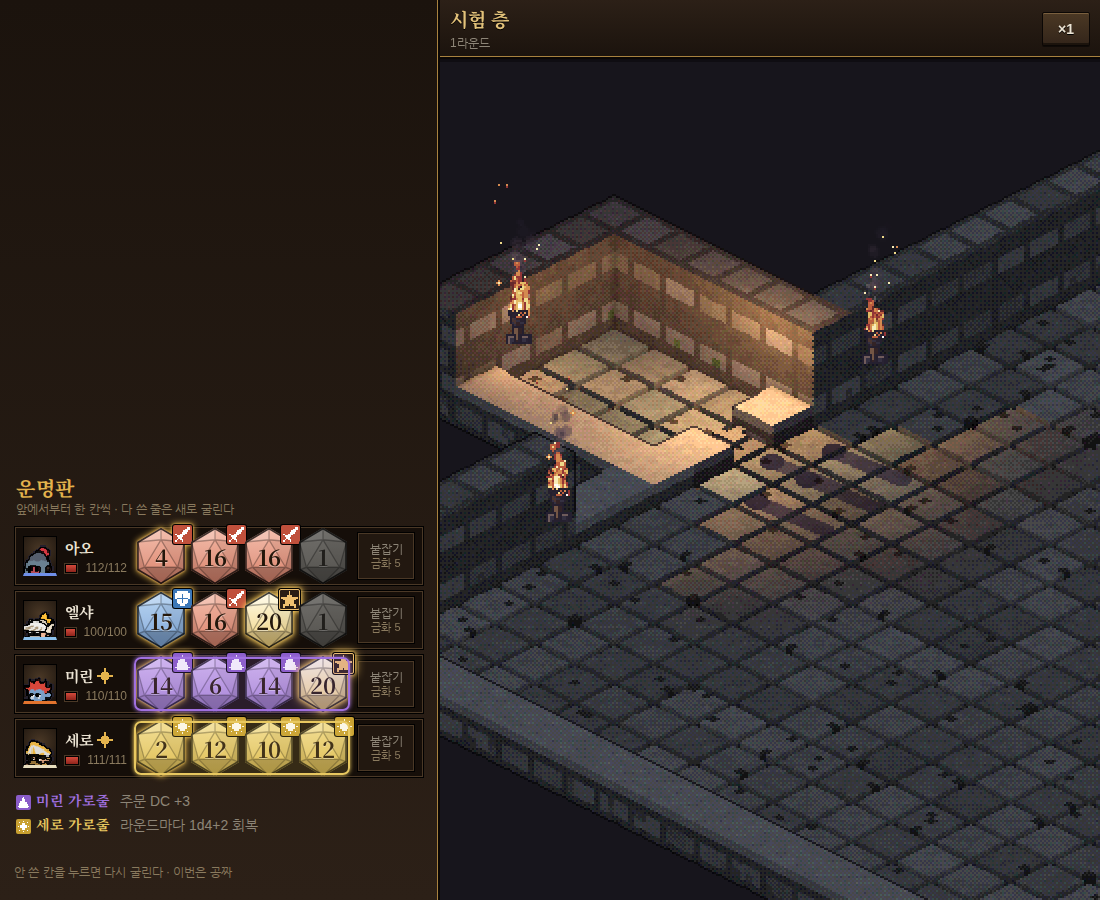
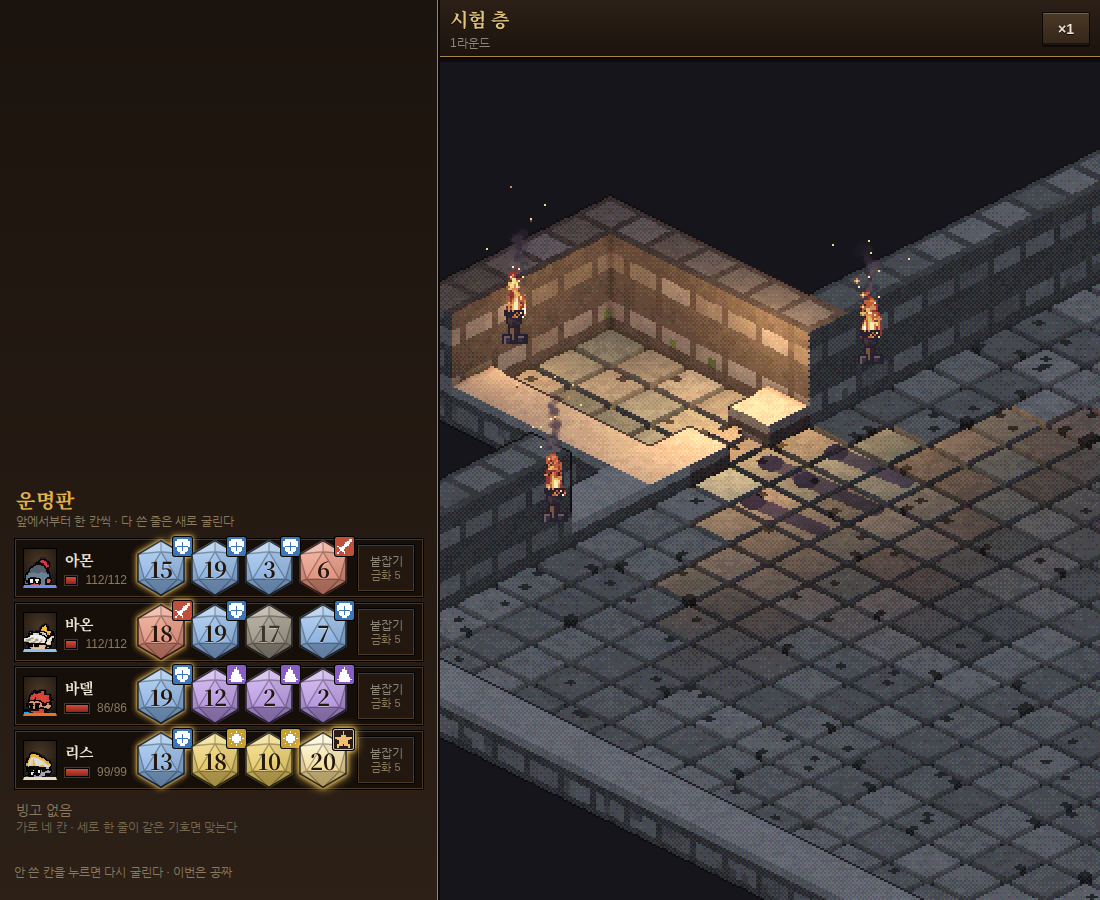
inc: 던전을 밝게 (기본 빛 · 빛 밖 흑백 · 등불 반지름) · 시안 배경도 새 밝기로

Changed region(s): [[0.0, 0.1556, 1.0, 1.0]]

diff --git a/inc/js/render/voxel.js b/inc/js/render/voxel.js
@@ -9,7 +9,7 @@
 const VOXON = q.get('vox') !== '0';
 const VOX = (() => {
   const VPT = 6, VS = T / VPT, FLOOR = 3, WH = FLOOR + 11, WLOW = FLOOR + 2, ZZ = WH + 2;
-  const LR = 48, VR = 9; // 빛 반지름(복셀) · 시야(타일)
+  const LR = 60, VR = 9; // 빛 반지름(복셀) · 시야(타일)
   const NORM = [[0, 0, 1], [0, 1, 0], [1, 0, 0]];
   const BAY = BAYER.map(v => v - .5);
   const hs = (a, b, c = 0) => { const s = Math.sin(a * 127.1 + b * 311.7 + c * 74.7) * 43758.5453; return s - Math.floor(s); };
@@ -17,7 +17,7 @@ const VOX = (() => {
   const mix = (a, b, t) => { const o = [16, 8, 0].map(s => Math.round(((a >> s) & 255) + (((b >> s) & 255) - ((a >> s) & 255)) * t)); return (o[0] << 16) | (o[1] << 8) | o[2]; };
   const hex = c => (Math.min(255, c[0] | 0) << 16) | (Math.min(255, c[1] | 0) << 8) | Math.min(255, c[2] | 0);
   // 빛이 없는 곳: 흑백 (판과 빛 덮개가 같은 식 — 경계가 이어진다)
-  const grayLin = (r0, g0, b0, a, nr) => { const up = nr === 0 ? 1.15 : .9, l = (.3 * r0 + .59 * g0 + .11 * b0) * .5 * a * up; return [l * .86, l * .9, l]; };
+  const grayLin = (r0, g0, b0, a, nr) => { const up = nr === 0 ? 1.15 : .9, l = (.3 * r0 + .59 * g0 + .11 * b0) * .7 * a * up; return [l * .86, l * .9, l]; };
   // 톤 · 디더(판 좌표 기준) → 색 하나
   const fin = (r, g, b, X, Y) => {
     r = r / (1 + r * .35) * 1.3; g = g / (1 + g * .35) * 1.3; b = b / (1 + b * .35) * 1.3;
@@ -209,7 +209,7 @@ const VOX = (() => {
     let R, G2, B;
     if (emv === 1) { R = r0 * 1.6 * L0.fl; G2 = g0 * 1.6 * L0.fl; B = b0 * 1.6 * L0.fl; }
     else {
-      const up = nr === 0 ? 1.15 : .9, amb = .32; let lr = amb * a * up, lg = .33 * a * up, lb = .44 * a * up;
+      const up = nr === 0 ? 1.15 : .9, amb = .46; let lr = amb * a * up, lg = .47 * a * up, lb = .58 * a * up; // 2026-11-20 밝게 (사용자: 「너무 어두워서 잘 안 보여」)
       for (const Lg of L0.lights) { const dx = Lg.x - px, dy = Lg.y - py, dz = Lg.z - pz, dd = Math.hypot(dx, dy, dz) + 1e-3, qq = dd / Lg.r; if (qq > 2.6) continue; const nd = Math.max(0, (n[0] * dx + n[1] * dy + n[2] * dz) / dd); if (!nd) continue; const val = Lg.i / (1 + qq * qq * 2.2) * (1 - qq / 2.6) * nd * (.55 + .45 * a); lr += Lg.c[0] * val; lg += Lg.c[1] * val; lb += Lg.c[2] * val; }
       R = r0 * lr; G2 = g0 * lg; B = b0 * lb;
       if (emv === 2) { const ww = Math.max(0, Math.sin(px * 1.1 + t * 2.1) + Math.sin(py * 1.5 - t * 1.7) + Math.sin((px + py) * .6 + t * 1.3) - 1.2); R += .05 + ww * .1; G2 += .12 + ww * .22; B += .18 + ww * .3; }

diff --git a/inc/char_lab/index.html b/inc/char_lab/index.html
@@ -103,7 +103,7 @@ function render(mesh, o) {
       const k = Math.max(0, (dot(nn, mul(d, 1 / di)) + .3) / 1.3) * f * f * l.i;
       r += c[0] * l.c[0] * k; g += c[1] * l.c[1] * k; b += c[2] * l.c[2] * k; lit += k;
     }
-    if (o.gray) { const m = Math.min(1, lit * 2.5), y = (.3 * c[0] + .59 * c[1] + .11 * c[2]) * .5 * (nn[2] > .6 ? 1.15 : .9), gy = [y * .86, y * .9, y]; r = gy[0] + (r - gy[0]) * m; g = gy[1] + (g - gy[1]) * m; b = gy[2] + (b - gy[2]) * m; } // 빛 밖은 흑백 (던전과 같게)
+    if (o.gray) { const m = Math.min(1, lit * 2.5), y = (.3 * c[0] + .59 * c[1] + .11 * c[2]) * .7 * (nn[2] > .6 ? 1.15 : .9), gy = [y * .86, y * .9, y]; r = gy[0] + (r - gy[0]) * m; g = gy[1] + (g - gy[1]) * m; b = gy[2] + (b - gy[2]) * m; } // 빛 밖은 흑백 (던전과 같게)
     return [r, g, b];
   }
   function raster(A, B, C, put) {
@@ -386,7 +386,7 @@ function scene(cv, list, t) {
   for (const e of ents) {
     const sx = Math.round(e.at[0] - CROP[0]), sy = Math.round(e.at[1] - CROP[1]); shadow(c, sx, sy, e.sh || .4);
     const bw = Math.round((e.w || 72) * ZM), bh = Math.round((e.h || 72) * ZM), fy = bh - 16;
-    const img = render(e.mesh, { root: e.p, face: e.face, z: ZM, w: bw, h: bh, fx: bw >> 1, fy, lights: lights.concat(shared.filter(l => l.own !== e)), amb: [.15, .15, .19], gray: true, dx: sx, dy: sy });
+    const img = render(e.mesh, { root: e.p, face: e.face, z: ZM, w: bw, h: bh, fx: bw >> 1, fy, lights: lights.concat(shared.filter(l => l.own !== e)), amb: [.2, .2, .25], gray: true, dx: sx, dy: sy });
     blit(c, img, sx - (bw >> 1), sy - fy);
   }
 }
